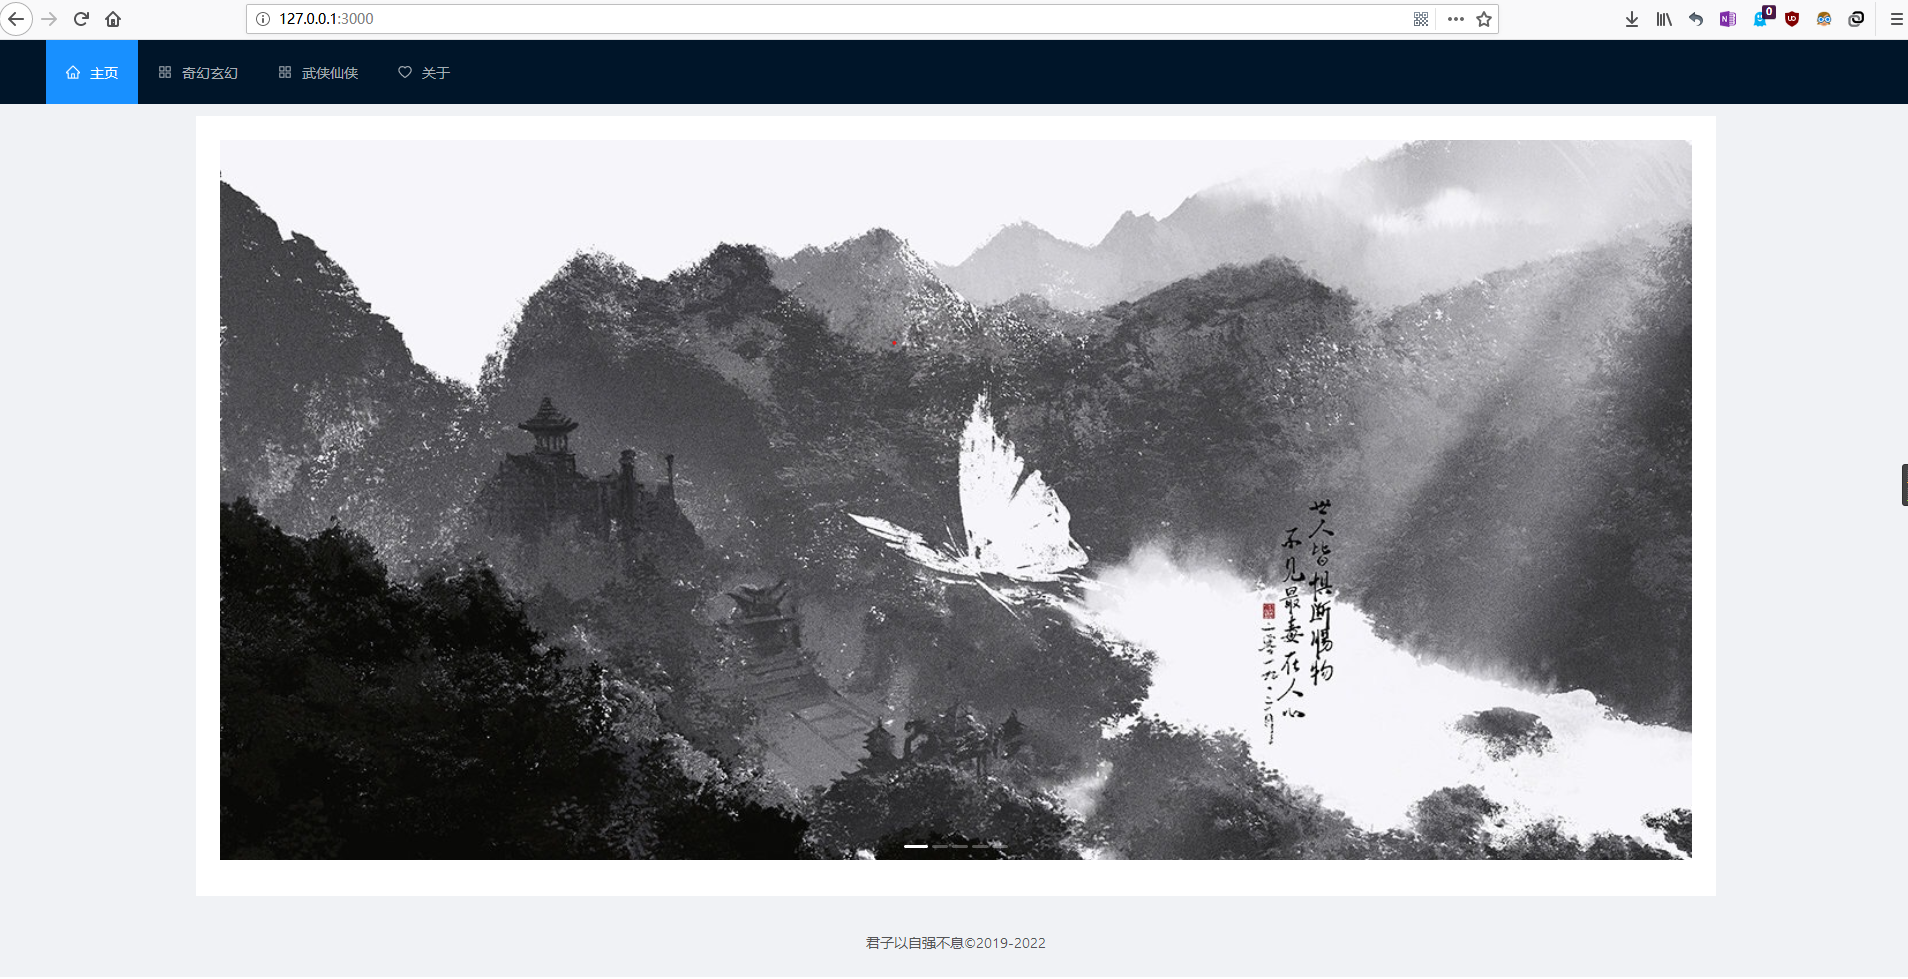
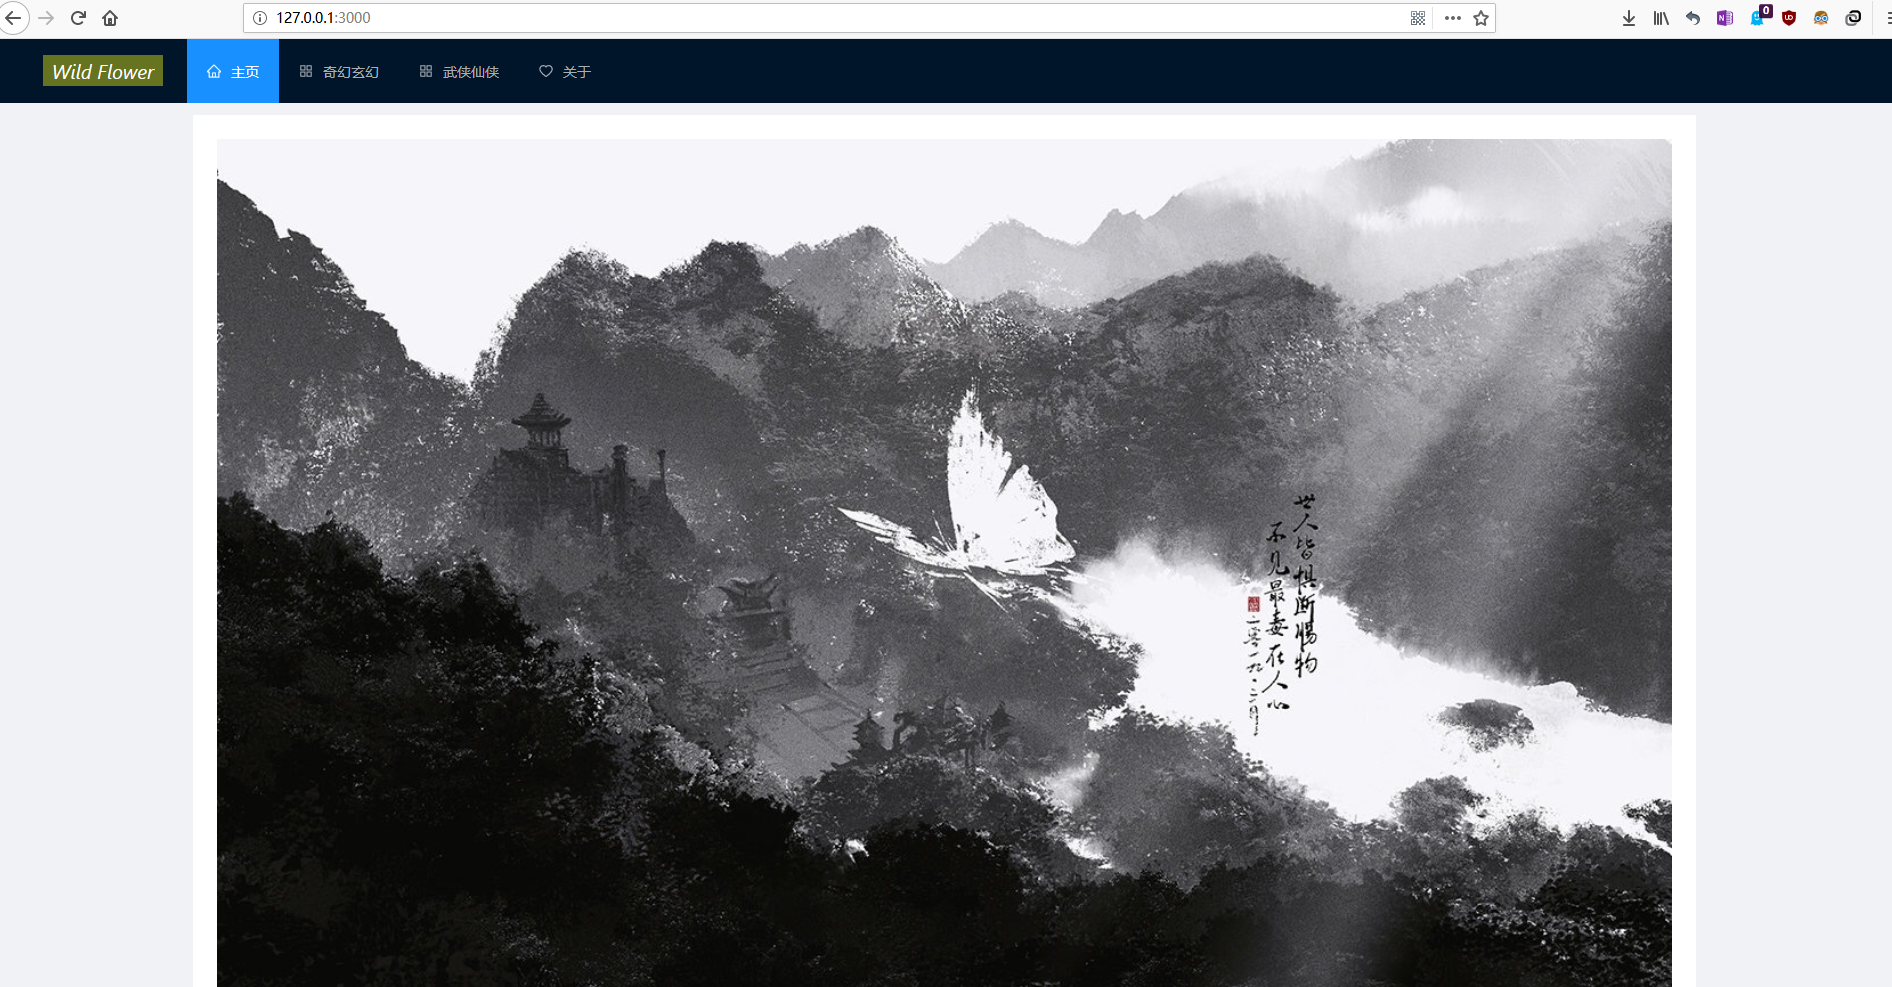
env upgrade

diff --git a/src/index - 副本.js b/src/index - 副本.js
@@ -7,11 +7,12 @@ import LOC from './component/ListOfChapters';
 import ShowContent from './component/ShowContent';
 import SC from './component/Search';
 
-// import 'antd/lib/menu/style';
-// import 'antd/lib/icon/style';
-// import 'antd/lib/layout/style';
-// import 'antd/lib/carousel/style';
+import 'antd/lib/menu/style';
+import 'antd/lib/icon/style';
+import 'antd/lib/layout/style';
+import 'antd/lib/carousel/style';
 
+import './css/carousel.css';
 import './css/index.css'
 
 
@@ -19,25 +20,23 @@ const { Header, Content, Footer } = Layout;
 
 const Home = function () {
   return (
-    <div>
-    <Carousel autoplay effect="fade">
+    <Carousel autoplay>
       <div>
-        <img src='src/img/x1.jpg' alt="x1" />
+        <img src='src/img/x1.jpg' alt="x1" style={{ width: '100%' }} />
       </div>
       <div>
-        <img src='src/img/x2.jpg' alt="x2" />
+        <img src='src/img/x2.jpg' alt="x2" style={{ width: '100%' }} />
       </div>
       <div>
-        <img src='src/img/x3.jpg' alt="x3" />
+        <img src='src/img/x3.jpg' alt="x3" style={{ width: '100%' }} />
       </div>
       <div>
-        <img src='src/img/x4.jpg' alt="x4" />
+        <img src='src/img/x4.jpg' alt="x4" style={{ width: '100%' }} />
       </div>
       <div>
-        <img src='src/img/x5.jpg' alt="x5" />
+        <img src='src/img/x5.jpg' alt="x5" style={{ width: '100%' }} />
       </div>
     </Carousel>
-    </div>
   )
 };
 
@@ -61,7 +60,7 @@ const App = () => (
   <Router>
     <Layout>
       <Header>
-        <span className="logo">Wild Flower</span>
+        <div className="logo"></div>
         <Menu mode="horizontal" theme="dark" defaultSelectedKeys={['home']} style={{ lineHeight: '64px' }}>
           <Menu.Item key="home"><Link to="/"><Icon type="home" />主页</Link></Menu.Item>
           <Menu.Item key="qihuan"><Link to="/type/1"><Icon type="appstore" />奇幻玄幻</Link></Menu.Item>

diff --git a/src/component/ListOfType.js b/src/component/ListOfType.js
@@ -1,5 +1,5 @@
 import React from 'react';
-import { inject, parse_qs } from '../utils';
+import { inject } from '../utils';
 import { List, Card, Pagination, Breadcrumb, Icon, Skeleton, message, Typography } from 'antd';
 import { Link } from 'react-router-dom';
 import { observer } from 'mobx-react';
@@ -72,7 +72,7 @@ class LOT extends React.Component {
         </div>
       );
     } else {
-      return (<div><Skeleton active /></div>)
+      return (<div><Skeleton active paragraph={{ rows: 20 }} /></div>)
     }
   }
 }

diff --git a/src/css/index.css b/src/css/index.css
@@ -1,0 +1,21 @@
+@import '~antd/dist/antd.css';
+
+.logo {
+  font-size: 20px;
+  font-style: italic;
+  text-align: center;
+  color: #ffffff;
+  line-height: 31px;
+  text-decoration: none;
+  width: 120px;
+  height: 31px;
+  /* background: rgba(255, 255, 255, 0.2); */
+  background: rgba(248, 252, 21, 0.411);
+  margin: 16px 24px 16px 0;
+  float: left;
+}
+
+img {
+  width:100%;
+height:auto;
+}

diff --git a/src/component/ListOfChapters.js b/src/component/ListOfChapters.js
@@ -68,7 +68,7 @@ class LOC extends React.Component {
                 </div>
             );
         } else {
-            return (<div><Skeleton active /></div>)
+            return (<div><Skeleton active paragraph={{ rows: 20 }} /></div>)
         }
     }
 }

diff --git a/index.html b/index.html
@@ -2,7 +2,7 @@
 <html lang="en">
 <head>
     <meta charset="UTF-8">
-    <title>迷思网</title>
+    <title>Wild Flower</title>
 </head>
 <body>
 <div id="root"></div>
